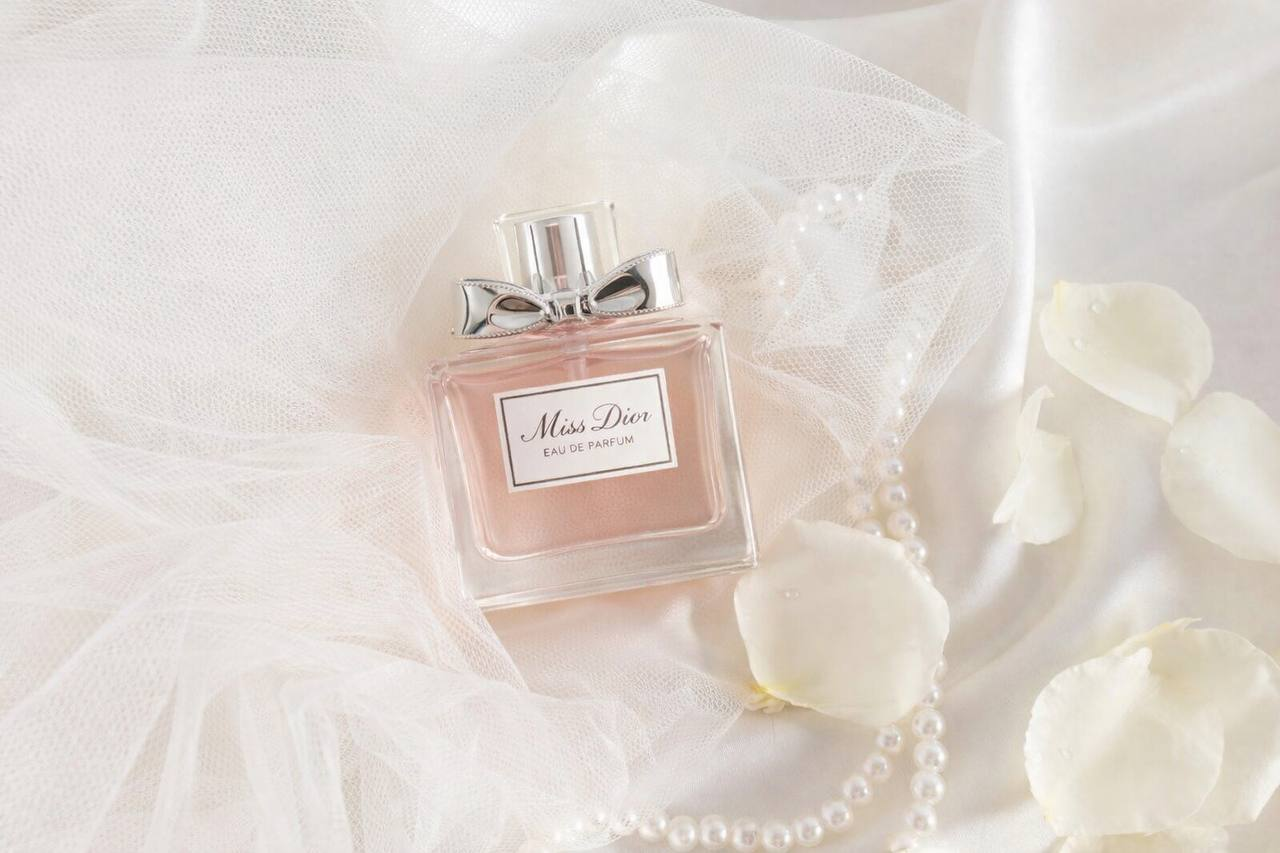
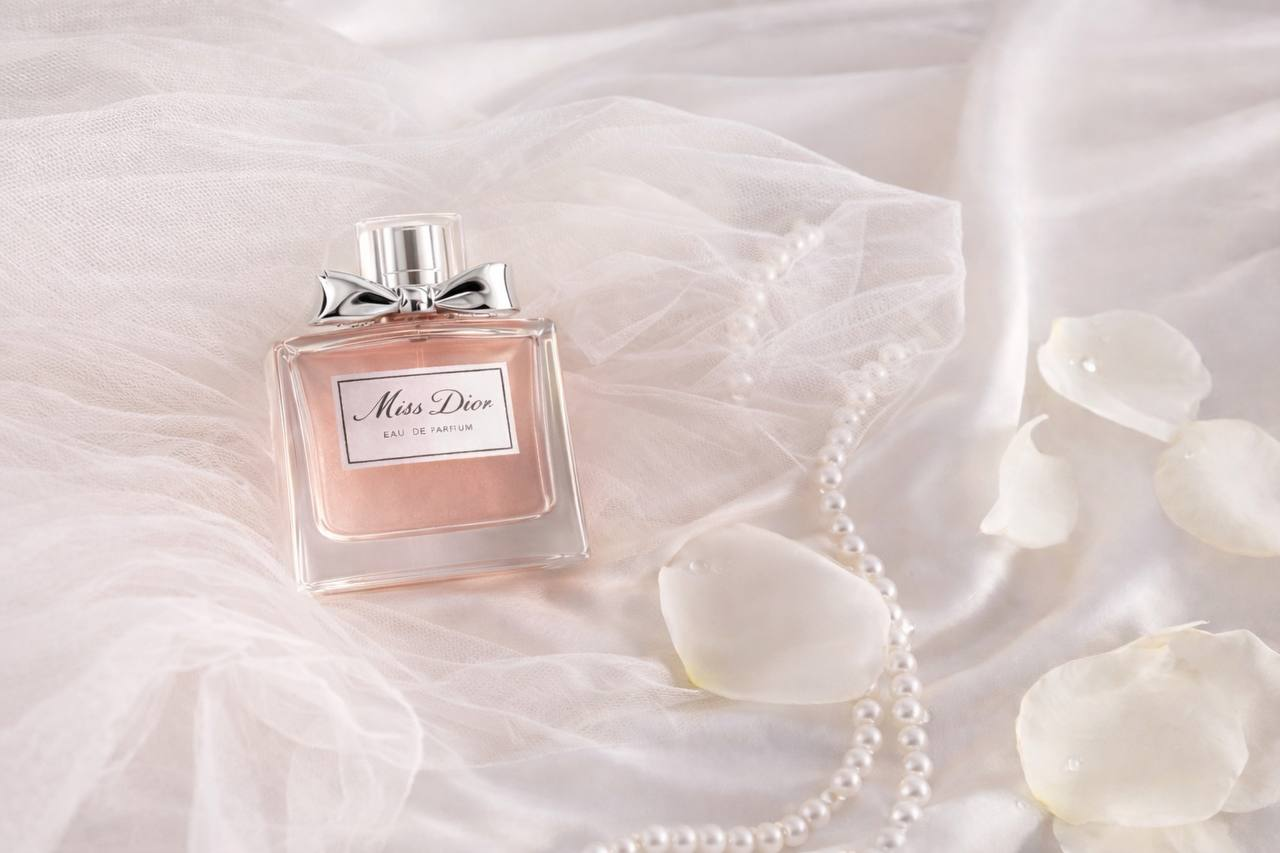
update

diff --git a/style.css b/style.css
@@ -160,10 +160,10 @@ body {
 
 
 .hero-img {
-  width: 130%;
+  width: 110%;
   height: 100%;
   object-fit: cover;
-  
+  transform: translateX(-120px);
 }
 
 /* 🔥 고급 느낌 핵심 (살짝 어둡게 + 분위기) */
